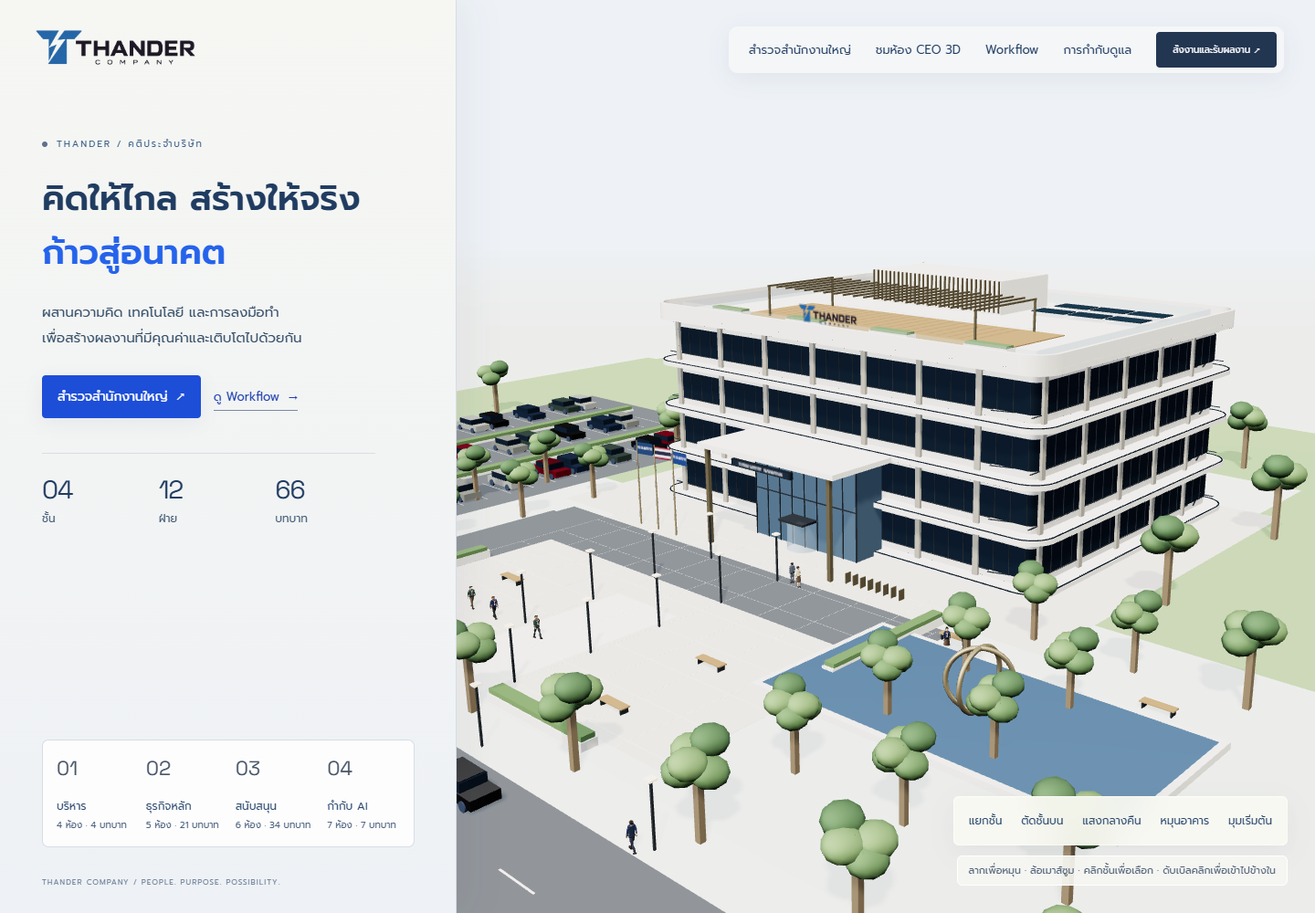
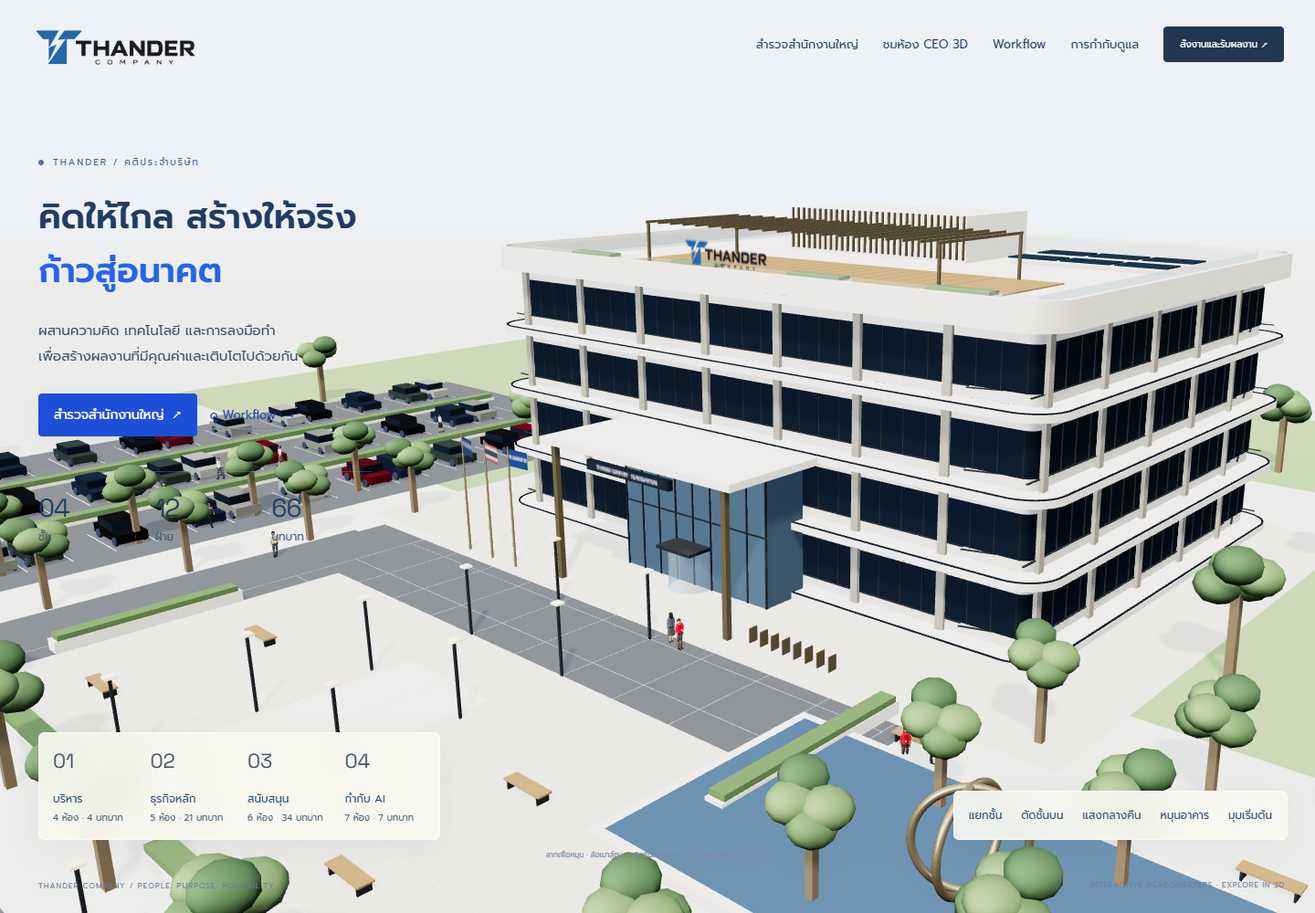
Restore THANDER homepage description and preview

diff --git a/Portfolio.html b/Portfolio.html
@@ -3445,7 +3445,7 @@ a:focus-visible, button:focus-visible, input:focus-visible { outline: 2px solid 
           <div style="padding:1.75rem;">
             <span style="display:inline-block;font-size:0.68rem;font-weight:700;letter-spacing:0.12em;color:#93bfff;border:1px solid #93bfff44;border-radius:99px;padding:0.25rem 0.75rem;margin-bottom:1rem;">3D Campus · Workflow · CEO Workspace</span>
             <h3 class="bento-title" style="margin-bottom:0.65rem;">THANDER Company</h3>
-            <p style="font-size:0.9rem;line-height:1.85;color:rgba(248,250,252,0.72);margin:0 0 1.25rem;">สำนักงานใหญ่ 3D ออกแบบใหม่ระดับบริษัทชั้นนำ 4 ชั้น 12 ฝ่าย 66 บทบาท ขนาดห้องตามมาตรฐานออฟฟิศจริง มีล็อบบี้ ห้องประชุมชั้นละห้อง (12/8/6 ที่นั่ง) ผนังห้องและผนังอาคารแบบทึบ Phone Booth และ Café ทุกชั้น พนักงานเดินไปมาระหว่างแผนกตลอดเวลา หน้าแรกแบ่งฝั่งข้อความกับภาพ 3D ไม่ทับกัน และมีคนเดินเข้า–ออกอาคาร พนักงานทุกคนมีชื่อและชื่อเล่น (สมมติ) บนป้ายตั้งสองหน้าขนาดใหญ่ รูปร่างและการแต่งกายสมจริงตามเพศ และมีบทสนทนาขึ้นเป็นข้อความทุกครั้งที่เดินมารับหรือส่งงานกับ CEO พร้อมคติ “คิดให้ไกล สร้างให้จริง ก้าวสู่อนาคต” ปรับอาคารเป็น 44×32 เมตร ห้องและโต๊ะมีขนาดตามจำนวนคน เพิ่มฝ่ายครีเอทีฟและสื่อชั้น 2 พร้อมกราฟิกดีไซเนอร์และนักตัดต่อวิดีโอ มีโต๊ะ จอออกแบบและไทม์ไลน์ประจำตัว พับกรอบรายละเอียดเพื่อเห็นผังภายในครบทุกชั้น เปิดดูแผนกและหน้าที่ได้เมื่อต้องการ มี Workflow และไดอะแกรม SVG อธิบายการทำงานทุกฝ่าย ห้อง CEO THANDER ชั้น 1 มี CEO ประจำห้องเพียงคนเดียว เมื่อสั่งงาน ตัวแทนแผนกเดินผ่านทางเดินและลิฟต์มารับโจทย์แล้วกลับโต๊ะ เมื่อผลงานพร้อมตรวจจะกลับมานำเสนอ พร้อมเปิดคำตอบและไฟล์ให้ CEO ตรวจรับ มีปุ่มลองฉากตัวอย่างโดยไม่เรียก AI เชื่อมพื้นที่ทำงานส่วนตัว มีตัวเลขสรุป ค้นหา กรอง ลบงาน และกู้คืนจากถังขยะ สั่งงานครีเอทีฟได้เป็นแบบกราฟิก HTML, Storyboard และแผนตัดต่อ (ยังไม่เรนเดอร์ MP4) พร้อมสั่งงาน Gemini ขอแก้ไข ตรวจรับ และดาวน์โหลดไฟล์ภาษาไทยสำหรับ Excel กำหนดวันรับงานแบบวัน/เดือน/ปี พ.ศ. เช่น 21/10/2569 แนบเอกสารอ้างอิงสูงสุด 3 ไฟล์ รวม 10 MB ผ่านพื้นที่ส่วนตัว พร้อมแสดงขนาดและความคืบหน้า มีตัวอย่างแผนคอนเทนต์ 7 วันให้ทดลองโดยไม่ใช้ AI ส่วนงาน AI จริงใช้โควต้า Free Tier ของโปรเจกต์ Google ที่ไม่เปิด Billing และไม่สลับไป OpenAI</p>
+            <p style="font-size:0.9rem;line-height:1.85;color:rgba(248,250,252,0.72);margin:0 0 1.25rem;">สำนักงานใหญ่ 3D ออกแบบใหม่ระดับบริษัทชั้นนำ 4 ชั้น 12 ฝ่าย 66 บทบาท ขนาดห้องตามมาตรฐานออฟฟิศจริง มีล็อบบี้ ห้องประชุมชั้นละห้อง (12/8/6 ที่นั่ง) ผนังห้องและผนังอาคารแบบทึบ Phone Booth และ Café ทุกชั้น พนักงานเดินไปมาระหว่างแผนกตลอดเวลา และหน้าแรกมีคนเดินเข้า–ออกอาคาร พนักงานทุกคนมีชื่อและชื่อเล่น (สมมติ) บนป้ายตั้งสองหน้าขนาดใหญ่ รูปร่างและการแต่งกายสมจริงตามเพศ และมีบทสนทนาขึ้นเป็นข้อความทุกครั้งที่เดินมารับหรือส่งงานกับ CEO พร้อมคติ “คิดให้ไกล สร้างให้จริง ก้าวสู่อนาคต” ปรับอาคารเป็น 44×32 เมตร ห้องและโต๊ะมีขนาดตามจำนวนคน เพิ่มฝ่ายครีเอทีฟและสื่อชั้น 2 พร้อมกราฟิกดีไซเนอร์และนักตัดต่อวิดีโอ มีโต๊ะ จอออกแบบและไทม์ไลน์ประจำตัว พับกรอบรายละเอียดเพื่อเห็นผังภายในครบทุกชั้น เปิดดูแผนกและหน้าที่ได้เมื่อต้องการ มี Workflow และไดอะแกรม SVG อธิบายการทำงานทุกฝ่าย ห้อง CEO THANDER ชั้น 1 มี CEO ประจำห้องเพียงคนเดียว เมื่อสั่งงาน ตัวแทนแผนกเดินผ่านทางเดินและลิฟต์มารับโจทย์แล้วกลับโต๊ะ เมื่อผลงานพร้อมตรวจจะกลับมานำเสนอ พร้อมเปิดคำตอบและไฟล์ให้ CEO ตรวจรับ มีปุ่มลองฉากตัวอย่างโดยไม่เรียก AI เชื่อมพื้นที่ทำงานส่วนตัว มีตัวเลขสรุป ค้นหา กรอง ลบงาน และกู้คืนจากถังขยะ สั่งงานครีเอทีฟได้เป็นแบบกราฟิก HTML, Storyboard และแผนตัดต่อ (ยังไม่เรนเดอร์ MP4) พร้อมสั่งงาน Gemini ขอแก้ไข ตรวจรับ และดาวน์โหลดไฟล์ภาษาไทยสำหรับ Excel กำหนดวันรับงานแบบวัน/เดือน/ปี พ.ศ. เช่น 21/10/2569 แนบเอกสารอ้างอิงสูงสุด 3 ไฟล์ รวม 10 MB ผ่านพื้นที่ส่วนตัว พร้อมแสดงขนาดและความคืบหน้า มีตัวอย่างแผนคอนเทนต์ 7 วันให้ทดลองโดยไม่ใช้ AI ส่วนงาน AI จริงใช้โควต้า Free Tier ของโปรเจกต์ Google ที่ไม่เปิด Billing และไม่สลับไป OpenAI</p>
             <div style="display:flex;flex-wrap:wrap;gap:0.4rem;margin-bottom:1.5rem;">
               <span style="font-size:0.7rem;padding:0.25rem 0.7rem;border:1px solid #93bfff4d;color:#93bfff;border-radius:99px;">Three.js</span><span style="font-size:0.7rem;padding:0.25rem 0.7rem;border:1px solid #93bfff4d;color:#93bfff;border-radius:99px;">Gemini API</span><span style="font-size:0.7rem;padding:0.25rem 0.7rem;border:1px solid #93bfff4d;color:#93bfff;border-radius:99px;">Vercel Functions</span><span style="font-size:0.7rem;padding:0.25rem 0.7rem;border:1px solid #93bfff4d;color:#93bfff;border-radius:99px;">Private Blob</span>
             </div>

diff --git a/index.html b/index.html
@@ -3445,7 +3445,7 @@ a:focus-visible, button:focus-visible, input:focus-visible { outline: 2px solid 
           <div style="padding:1.75rem;">
             <span style="display:inline-block;font-size:0.68rem;font-weight:700;letter-spacing:0.12em;color:#93bfff;border:1px solid #93bfff44;border-radius:99px;padding:0.25rem 0.75rem;margin-bottom:1rem;">3D Campus · Workflow · CEO Workspace</span>
             <h3 class="bento-title" style="margin-bottom:0.65rem;">THANDER Company</h3>
-            <p style="font-size:0.9rem;line-height:1.85;color:rgba(248,250,252,0.72);margin:0 0 1.25rem;">สำนักงานใหญ่ 3D ออกแบบใหม่ระดับบริษัทชั้นนำ 4 ชั้น 12 ฝ่าย 66 บทบาท ขนาดห้องตามมาตรฐานออฟฟิศจริง มีล็อบบี้ ห้องประชุมชั้นละห้อง (12/8/6 ที่นั่ง) ผนังห้องและผนังอาคารแบบทึบ Phone Booth และ Café ทุกชั้น พนักงานเดินไปมาระหว่างแผนกตลอดเวลา หน้าแรกแบ่งฝั่งข้อความกับภาพ 3D ไม่ทับกัน และมีคนเดินเข้า–ออกอาคาร พนักงานทุกคนมีชื่อและชื่อเล่น (สมมติ) บนป้ายตั้งสองหน้าขนาดใหญ่ รูปร่างและการแต่งกายสมจริงตามเพศ และมีบทสนทนาขึ้นเป็นข้อความทุกครั้งที่เดินมารับหรือส่งงานกับ CEO พร้อมคติ “คิดให้ไกล สร้างให้จริง ก้าวสู่อนาคต” ปรับอาคารเป็น 44×32 เมตร ห้องและโต๊ะมีขนาดตามจำนวนคน เพิ่มฝ่ายครีเอทีฟและสื่อชั้น 2 พร้อมกราฟิกดีไซเนอร์และนักตัดต่อวิดีโอ มีโต๊ะ จอออกแบบและไทม์ไลน์ประจำตัว พับกรอบรายละเอียดเพื่อเห็นผังภายในครบทุกชั้น เปิดดูแผนกและหน้าที่ได้เมื่อต้องการ มี Workflow และไดอะแกรม SVG อธิบายการทำงานทุกฝ่าย ห้อง CEO THANDER ชั้น 1 มี CEO ประจำห้องเพียงคนเดียว เมื่อสั่งงาน ตัวแทนแผนกเดินผ่านทางเดินและลิฟต์มารับโจทย์แล้วกลับโต๊ะ เมื่อผลงานพร้อมตรวจจะกลับมานำเสนอ พร้อมเปิดคำตอบและไฟล์ให้ CEO ตรวจรับ มีปุ่มลองฉากตัวอย่างโดยไม่เรียก AI เชื่อมพื้นที่ทำงานส่วนตัว มีตัวเลขสรุป ค้นหา กรอง ลบงาน และกู้คืนจากถังขยะ สั่งงานครีเอทีฟได้เป็นแบบกราฟิก HTML, Storyboard และแผนตัดต่อ (ยังไม่เรนเดอร์ MP4) พร้อมสั่งงาน Gemini ขอแก้ไข ตรวจรับ และดาวน์โหลดไฟล์ภาษาไทยสำหรับ Excel กำหนดวันรับงานแบบวัน/เดือน/ปี พ.ศ. เช่น 21/10/2569 แนบเอกสารอ้างอิงสูงสุด 3 ไฟล์ รวม 10 MB ผ่านพื้นที่ส่วนตัว พร้อมแสดงขนาดและความคืบหน้า มีตัวอย่างแผนคอนเทนต์ 7 วันให้ทดลองโดยไม่ใช้ AI ส่วนงาน AI จริงใช้โควต้า Free Tier ของโปรเจกต์ Google ที่ไม่เปิด Billing และไม่สลับไป OpenAI</p>
+            <p style="font-size:0.9rem;line-height:1.85;color:rgba(248,250,252,0.72);margin:0 0 1.25rem;">สำนักงานใหญ่ 3D ออกแบบใหม่ระดับบริษัทชั้นนำ 4 ชั้น 12 ฝ่าย 66 บทบาท ขนาดห้องตามมาตรฐานออฟฟิศจริง มีล็อบบี้ ห้องประชุมชั้นละห้อง (12/8/6 ที่นั่ง) ผนังห้องและผนังอาคารแบบทึบ Phone Booth และ Café ทุกชั้น พนักงานเดินไปมาระหว่างแผนกตลอดเวลา และหน้าแรกมีคนเดินเข้า–ออกอาคาร พนักงานทุกคนมีชื่อและชื่อเล่น (สมมติ) บนป้ายตั้งสองหน้าขนาดใหญ่ รูปร่างและการแต่งกายสมจริงตามเพศ และมีบทสนทนาขึ้นเป็นข้อความทุกครั้งที่เดินมารับหรือส่งงานกับ CEO พร้อมคติ “คิดให้ไกล สร้างให้จริง ก้าวสู่อนาคต” ปรับอาคารเป็น 44×32 เมตร ห้องและโต๊ะมีขนาดตามจำนวนคน เพิ่มฝ่ายครีเอทีฟและสื่อชั้น 2 พร้อมกราฟิกดีไซเนอร์และนักตัดต่อวิดีโอ มีโต๊ะ จอออกแบบและไทม์ไลน์ประจำตัว พับกรอบรายละเอียดเพื่อเห็นผังภายในครบทุกชั้น เปิดดูแผนกและหน้าที่ได้เมื่อต้องการ มี Workflow และไดอะแกรม SVG อธิบายการทำงานทุกฝ่าย ห้อง CEO THANDER ชั้น 1 มี CEO ประจำห้องเพียงคนเดียว เมื่อสั่งงาน ตัวแทนแผนกเดินผ่านทางเดินและลิฟต์มารับโจทย์แล้วกลับโต๊ะ เมื่อผลงานพร้อมตรวจจะกลับมานำเสนอ พร้อมเปิดคำตอบและไฟล์ให้ CEO ตรวจรับ มีปุ่มลองฉากตัวอย่างโดยไม่เรียก AI เชื่อมพื้นที่ทำงานส่วนตัว มีตัวเลขสรุป ค้นหา กรอง ลบงาน และกู้คืนจากถังขยะ สั่งงานครีเอทีฟได้เป็นแบบกราฟิก HTML, Storyboard และแผนตัดต่อ (ยังไม่เรนเดอร์ MP4) พร้อมสั่งงาน Gemini ขอแก้ไข ตรวจรับ และดาวน์โหลดไฟล์ภาษาไทยสำหรับ Excel กำหนดวันรับงานแบบวัน/เดือน/ปี พ.ศ. เช่น 21/10/2569 แนบเอกสารอ้างอิงสูงสุด 3 ไฟล์ รวม 10 MB ผ่านพื้นที่ส่วนตัว พร้อมแสดงขนาดและความคืบหน้า มีตัวอย่างแผนคอนเทนต์ 7 วันให้ทดลองโดยไม่ใช้ AI ส่วนงาน AI จริงใช้โควต้า Free Tier ของโปรเจกต์ Google ที่ไม่เปิด Billing และไม่สลับไป OpenAI</p>
             <div style="display:flex;flex-wrap:wrap;gap:0.4rem;margin-bottom:1.5rem;">
               <span style="font-size:0.7rem;padding:0.25rem 0.7rem;border:1px solid #93bfff4d;color:#93bfff;border-radius:99px;">Three.js</span><span style="font-size:0.7rem;padding:0.25rem 0.7rem;border:1px solid #93bfff4d;color:#93bfff;border-radius:99px;">Gemini API</span><span style="font-size:0.7rem;padding:0.25rem 0.7rem;border:1px solid #93bfff4d;color:#93bfff;border-radius:99px;">Vercel Functions</span><span style="font-size:0.7rem;padding:0.25rem 0.7rem;border:1px solid #93bfff4d;color:#93bfff;border-radius:99px;">Private Blob</span>
             </div>

diff --git a/README.md b/README.md
@@ -43,7 +43,7 @@
 
 | Project | Description |
 |---|---|
-| [THANDER Company](https://thander-company-ai-campus.vercel.app/) | สำนักงานใหญ่ 3D ออกแบบใหม่ระดับบริษัทชั้นนำ 4 ชั้น 12 ฝ่าย 66 บทบาท (ขนาดห้องตามมาตรฐาน ล็อบบี้ ห้องประชุมชั้นละห้อง ผนังทึบ Café พนักงานเดินไปมาตลอดเวลา หน้าแรกแบ่งฝั่งข้อความ/ภาพ 3D) พนักงานทุกคนมีชื่อ/ชื่อเล่นสมมติบนป้ายตั้งขนาดใหญ่ การ์ด และการค้นหา ตัวละครสมจริงตามเพศ และบทสนทนาตอนเดินรับ–ส่งงานกับ CEO คติ “คิดให้ไกล สร้างให้จริง ก้าวสู่อนาคต” มุมมองมือถือใหญ่ขึ้น ผังทุกชั้นเห็นครบด้วยกรอบรายละเอียดที่พับได้ พร้อม [Workflow และหน้าที่แต่ละฝ่าย](https://thander-company-ai-campus.vercel.app/workflow.html#departmentDirectory) และห้องทำงาน CEO ส่วนตัวที่มีตัวเลขสรุป ค้นหาและกรองสถานะงาน ลบ/กู้คืนผ่านถังขยะ พร้อมฉากตัวแทนแผนกเดินมารับโจทย์และกลับมานำเสนอเมื่อผลงานพร้อมตรวจ พร้อมห้อง CEO THANDER ในชั้น 1 และฝ่ายครีเอทีฟและสื่อชั้น 2 (กราฟิกดีไซเนอร์/นักตัดต่อวิดีโอ) อาคาร 44×32 เมตร ห้องตามจำนวนคน สั่ง Gemini ขอแก้ไข ตรวจรับ และดาวน์โหลดภาษาไทยสำหรับ Excel รวม [ตัวอย่างสั่งงานแบบไม่เรียก AI](https://thander-company-ai-campus.vercel.app/workflow.html#practiceLab) (Free Tier ต้องใช้โปรเจกต์ Google ที่ไม่เปิด Billing; โควต้าตามบัญชี) (Private source) |
+| [THANDER Company](https://thander-company-ai-campus.vercel.app/) | สำนักงานใหญ่ 3D ออกแบบใหม่ระดับบริษัทชั้นนำ 4 ชั้น 12 ฝ่าย 66 บทบาท (ขนาดห้องตามมาตรฐาน ล็อบบี้ ห้องประชุมชั้นละห้อง ผนังทึบ Café พนักงานเดินไปมาตลอดเวลา) พนักงานทุกคนมีชื่อ/ชื่อเล่นสมมติบนป้ายตั้งขนาดใหญ่ การ์ด และการค้นหา ตัวละครสมจริงตามเพศ และบทสนทนาตอนเดินรับ–ส่งงานกับ CEO คติ “คิดให้ไกล สร้างให้จริง ก้าวสู่อนาคต” มุมมองมือถือใหญ่ขึ้น ผังทุกชั้นเห็นครบด้วยกรอบรายละเอียดที่พับได้ พร้อม [Workflow และหน้าที่แต่ละฝ่าย](https://thander-company-ai-campus.vercel.app/workflow.html#departmentDirectory) และห้องทำงาน CEO ส่วนตัวที่มีตัวเลขสรุป ค้นหาและกรองสถานะงาน ลบ/กู้คืนผ่านถังขยะ พร้อมฉากตัวแทนแผนกเดินมารับโจทย์และกลับมานำเสนอเมื่อผลงานพร้อมตรวจ พร้อมห้อง CEO THANDER ในชั้น 1 และฝ่ายครีเอทีฟและสื่อชั้น 2 (กราฟิกดีไซเนอร์/นักตัดต่อวิดีโอ) อาคาร 44×32 เมตร ห้องตามจำนวนคน สั่ง Gemini ขอแก้ไข ตรวจรับ และดาวน์โหลดภาษาไทยสำหรับ Excel รวม [ตัวอย่างสั่งงานแบบไม่เรียก AI](https://thander-company-ai-campus.vercel.app/workflow.html#practiceLab) (Free Tier ต้องใช้โปรเจกต์ Google ที่ไม่เปิด Billing; โควต้าตามบัญชี) (Private source) |
 | [Thander Usage](https://thander-usage.vercel.app/) | Windows desktop robot companion for Claude/Codex usage, articulated greeting and interactive web demo. [Source](https://github.com/tanakrthum254614-max/thander-usage) |
 | [Gold Signal](https://github.com/tanakrthum254614-max/gold-signal) | แพลตฟอร์มสัญญาณการซื้อขายทองคำแบบเรียลไทม์ พร้อมผลทดสอบย้อนหลังและการเปิดเผยผลการซื้อขายจริง |
 | [IT Asset Tracker](https://github.com/tanakrthum254614-max/it-asset-tracker) | ระบบทะเบียนครุภัณฑ์ไอทีพร้อมป้าย QR และการติดตามการรับประกัน |
